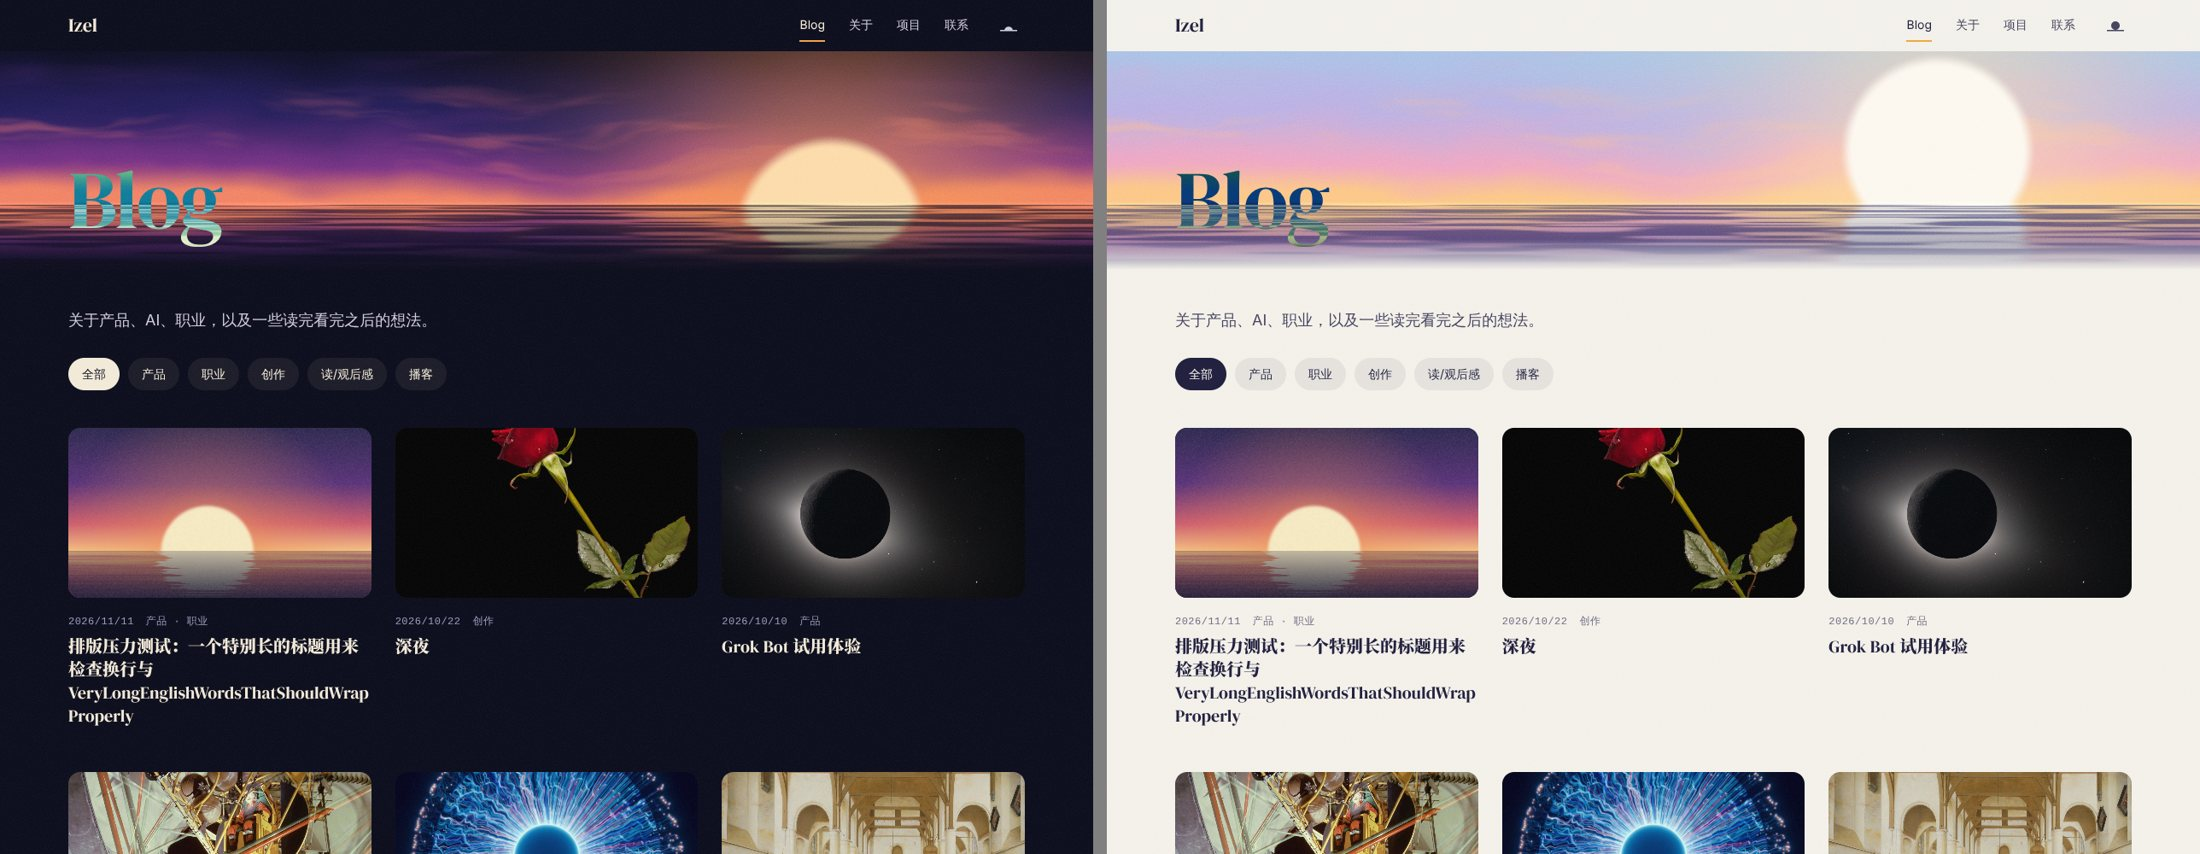
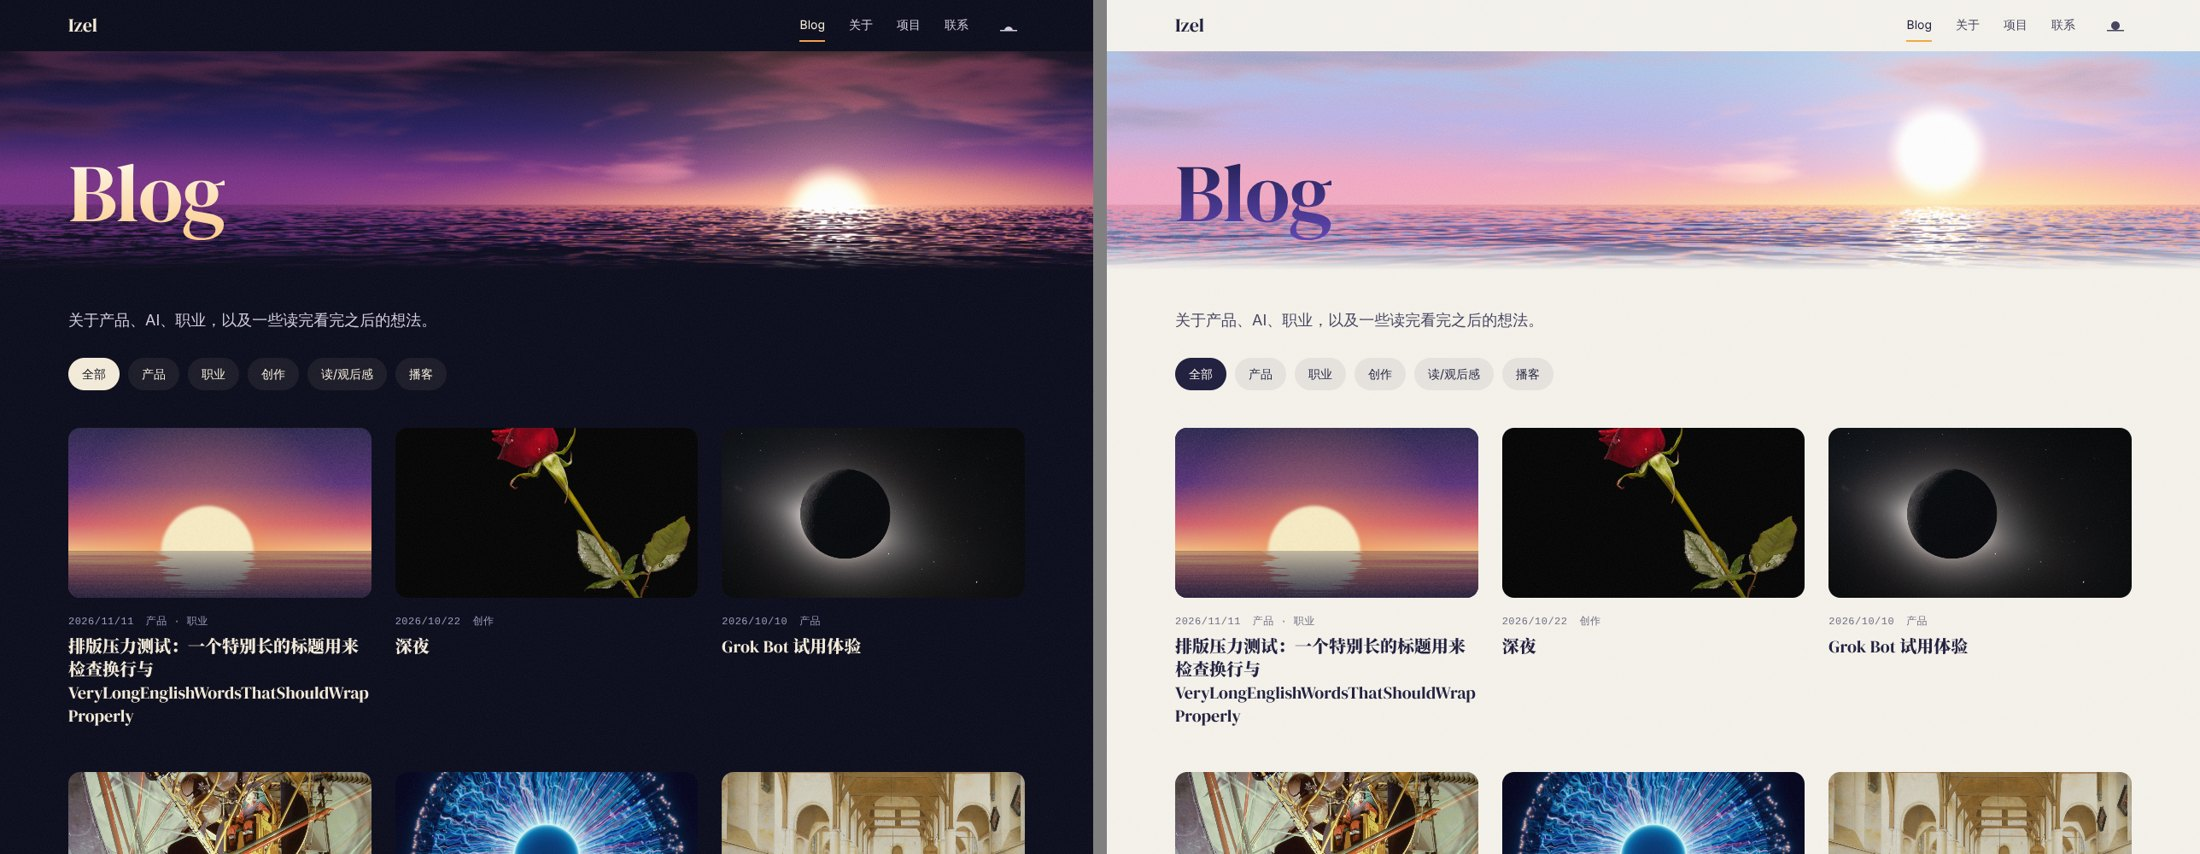
让日出日落更接近真实：光晕散射、被照亮的云、波光粼粼的水面
- 天空：头顶偏冷、低处偏暖，朝向太阳的方向最暖
- 云：成片的云带缓慢漂移，底面被低角度的光染亮，高处和厚处留在阴影里
- 太阳：过曝发白的核心、带色的边缘、紧贴的光晕、更宽的辉光，以及贴着地平线的散射光带
- 水面：按掠射视角计算的波纹，每个小面映出它正对的那片天，太阳因此碎成一条光路
- 颜色按光量计算后再压回屏幕范围，太阳可以过曝而天空不失色
- 画布像素数设上限，大窗口按比例降低分辨率
- Blog 与 404 页头标题改用和首屏一致的渐变色

Claude-Session: https://claude.ai/code/session_01VVCgJNAF3sA25Pjk3o2NEo

Changed region(s): [[0.0, 0.0609, 1.0, 0.3044], [0.5255, 0.0609, 0.7109, 0.0913], [0.4945, 0.1218, 0.5564, 0.1522]]

diff --git a/components/SunScene.js b/components/SunScene.js
@@ -1,14 +1,18 @@
 import { useEffect, useRef } from 'react'
 
 /**
- * A sunrise / sunset painted live on a canvas.
+ * A sunrise / sunset rendered live on a canvas.
  *
- * One fragment shader draws everything: sky colours that seep into each other,
- * drifting clouds, a round sun with a soft blurred rim, and water that pulls
- * the reflection apart into strokes of light. 日出 and 日落 are two palettes and
- * two sun heights; flipping the theme eases from one to the other.
+ * One fragment shader draws everything. The sky is cool overhead and warm
+ * toward the sun; cloud banks drift and catch the low light on their
+ * undersides; the sun burns out to white inside a coloured aureole and a band
+ * of scattered light along the horizon. The water is a rippled surface seen
+ * at a glancing angle: each facet mirrors the piece of sky it happens to face,
+ * which is what breaks the sun into a path of glitter.
  *
- * Without WebGL, or before the script runs, the CSS gradient on .scene shows.
+ * 日出 and 日落 are two palettes and two sun heights; flipping the theme eases
+ * from one to the other. Without WebGL, or before the script runs, the CSS
+ * gradient on .scene shows.
  */
 
 const FRAGMENT = `
@@ -42,59 +46,102 @@ float fbm(vec2 p) {
   return s;
 }
 
-vec3 sky(vec2 p, float aspect) {
-  float h = clamp((p.y - u_horizon) / (1.0 - u_horizon), 0.0, 1.0);
-  // Colours do not sit in bands: slow noise pushes them into each other.
-  float w = fbm(vec2(p.x * 1.1 + u_time * 0.010, p.y * 2.2 - u_time * 0.006));
-  float w2 = fbm(vec2(p.x * 0.6 - u_time * 0.007, p.y * 1.3 + 7.0));
-  float t = h + (w - 0.5) * 0.34 + (w2 - 0.5) * 0.18;
-  vec3 c = mix(u_glow, u_low, smoothstep(0.0, 0.24, t));
-  c = mix(c, u_mid, smoothstep(0.18, 0.58, t));
-  c = mix(c, u_top, smoothstep(0.5, 1.0, t));
-  // Two layers of long thin clouds drifting at different speeds, lit from below.
-  float cl = fbm(vec2(p.x * 1.4 - u_time * 0.045, p.y * 12.0 + w * 3.0));
-  float band = smoothstep(0.5, 0.8, cl) * smoothstep(0.02, 0.22, h) * (1.0 - smoothstep(0.5, 0.9, h));
-  c = mix(c, mix(u_low, u_glow, 0.6), band * 0.5);
-  float cl2 = fbm(vec2(p.x * 0.8 - u_time * 0.022 + 5.0, p.y * 7.0 - w2 * 2.0));
-  float band2 = smoothstep(0.55, 0.85, cl2) * smoothstep(0.3, 0.6, h);
-  c = mix(c, mix(u_mid, u_low, 0.5), band2 * 0.35);
+// Colours are worked on as light (0 = black, large = blinding) and squeezed back
+// at the end, so the sun can burn out to white while the sky keeps its hue.
+vec3 toLight(vec3 c) { return -log(1.0 - c * 0.96); }
+vec3 toScreen(vec3 l) { return (1.0 - exp(-l)) / 0.96; }
 
-  // The sun is a round, softly blurred disc that holds still. Only its reflection
-  // is disturbed, by the water.
+// Light arriving from one direction of the sky. detail = 0 skips the fine cloud
+// layer, for the reflection, where ripples would hide it anyway.
+vec3 skyLight(vec2 p, float aspect, float detail) {
   vec2 sp = vec2(u_sun.x * aspect, u_horizon + u_sun.y * u_radius);
-  float d = length(p - sp);
-  // Halation: light bleeding out of the disc, the way it does on film.
-  float bleed = exp(-d * d / (u_radius * u_radius * 4.5)) * 0.66 + exp(-d / (u_radius * 1.2)) * 0.08;
-  c = mix(c, u_halo, clamp(bleed * u_glowAmt, 0.0, 0.9));
-  // A soft, out-of-focus rim: the disc fades out over the last tenth of its radius.
-  float core = smoothstep(u_radius * 1.03, u_radius * 0.88, d);
-  c = mix(c, u_core, core);
-  return c;
+  float h = clamp((p.y - u_horizon) / (1.0 - u_horizon), 0.0, 1.0);
+  vec2 ds = p - sp;
+  float d = length(ds);
+  float r = u_radius;
+
+  // Air: cool overhead, warm low down, and warmest in the direction of the sun.
+  float toward = exp(-ds.x * ds.x / (0.9 * aspect * 0.5));
+  float w = fbm(vec2(p.x * 0.9 + u_time * 0.006, p.y * 1.8));
+  float t = h + (w - 0.5) * 0.16;
+  vec3 warm = mix(u_low, u_glow, toward);
+  vec3 c = mix(warm, u_low, smoothstep(0.0, 0.2 + 0.12 * toward, t));
+  c = mix(c, u_mid, smoothstep(0.12, 0.55, t));
+  c = mix(c, u_top, smoothstep(0.45, 1.0, t));
+  vec3 L = toLight(c);
+
+  // Clouds: long banks, thicker higher up, drifting. Their undersides catch
+  // the low sun; the thick parts stay in shadow.
+  vec2 cp = vec2(p.x * 1.1 - u_time * 0.035, p.y * 5.5);
+  float warp = fbm(cp * 0.7 + 3.0);
+  float dens = fbm(cp + vec2(warp * 1.6, warp * 0.8));
+  if (detail > 0.5) dens += (fbm(cp * 3.1 + vec2(-u_time * 0.02, 0.0)) - 0.5) * 0.22;
+  float cover = smoothstep(0.46, 0.78, dens + (h - 0.5) * 0.3) * smoothstep(0.04, 0.22, h);
+  // How much low sunlight reaches this part of the cloud deck.
+  float reach = exp(-d / (r * 7.5)) * (1.0 - smoothstep(0.12, 0.8, h) * 0.82);
+  float thin = 1.0 - smoothstep(0.52, 0.82, dens);
+  vec3 shade = toLight(mix(u_top, u_mid, 0.6) * 0.82);
+  vec3 lit = toLight(mix(u_low, u_glow, 0.55)) * (1.0 + 1.3 * reach) + u_halo * thin * reach * 1.3;
+  L = mix(L, mix(shade, lit, clamp(reach * 1.6 + thin * 0.2, 0.0, 1.0)), cover * 0.85);
+
+  // The sun: a core that burns out to white, a coloured rim, a tight aureole,
+  // a wider glow, and a band of scattered light that hugs the horizon.
+  float veil = 1.0 - cover * 0.5;
+  vec3 S = u_core * smoothstep(r * 1.0, r * 0.35, d) * 3.2;
+  S += mix(u_core, u_halo, 0.6) * smoothstep(r * 1.25, r * 0.7, d) * 1.5;
+  S += u_halo * exp(-d / (r * 0.6)) * 1.5;
+  S += u_halo * exp(-d * d / (r * r * 16.0)) * 0.42;
+  S += u_halo * 0.1 * r / (d + r * 1.2);
+  float along = exp(-ds.x * ds.x / (r * r * 46.0));
+  S += u_glow * exp(-abs(p.y - u_horizon) / (r * 0.4)) * along * 0.55;
+  return L + S * veil * u_glowAmt;
+}
+
+float swell(vec2 w, float t) {
+  float s = noise(w * vec2(0.34, 1.05) + vec2(t * 0.04, t * 0.16));
+  s += noise(w * vec2(0.9, 2.5) + vec2(-t * 0.07, t * 0.3)) * 0.5;
+  s += noise(w * vec2(2.3, 5.6) + vec2(t * 0.1, t * 0.52)) * 0.22;
+  return s;
 }
 
 void main() {
   vec2 uv = gl_FragCoord.xy / u_res;
   float aspect = u_res.x / u_res.y;
   vec2 p = vec2(uv.x * aspect, uv.y);
-  vec3 c;
+  vec3 L;
   if (p.y >= u_horizon) {
-    c = sky(p, aspect);
+    L = skyLight(p, aspect, 1.0);
   } else {
-    // Water: the sky upside down, pulled apart by ripples that widen with depth.
-    float depth = (u_horizon - p.y) / u_horizon;
-    float rows = p.y * 150.0 / (1.0 + depth * 2.5);
-    float rip = noise(vec2(p.x * 2.2 + u_time * 0.05, rows - u_time * 0.45));
-    float swell = noise(vec2(p.x * 0.8, rows * 0.22 + u_time * 0.12));
-    vec2 r = vec2(p.x, u_horizon + (u_horizon - p.y) * 1.1);
-    r.x += (rip - 0.5) * 0.09 * (0.25 + depth * 2.2);
-    r.x += (swell - 0.5) * 0.14 * depth;
-    vec3 refl = sky(r, aspect);
-    float lit = smoothstep(0.3, 0.7, rip);
-    float keep = (1.0 - depth * 0.75) * (0.35 + 0.65 * lit);
-    c = mix(u_sea, refl, clamp(keep, 0.0, 1.0));
+    // Water. The eye is level with the horizon; each pixel below it is a ray
+    // that meets the sea some distance away.
+    vec3 ray = normalize(vec3(p.x - 0.5 * aspect, p.y - u_horizon, 1.0));
+    float dist = 1.0 / max(u_horizon - p.y, 0.0015);
+    vec2 w = vec2((p.x - 0.5 * aspect) * dist, dist);
+    // Ripples flatten with distance, which is also what keeps them from flickering.
+    float amp = 0.62 / (1.0 + dist * 0.22);
+    float e = 0.05 + dist * 0.01;
+    float h0 = swell(w, u_time);
+    float hx = swell(w + vec2(e, 0.0), u_time) - h0;
+    float hz = swell(w + vec2(0.0, e), u_time) - h0;
+    vec3 n = normalize(vec3(-hx * amp / e, 1.0, -hz * amp / e));
+    vec3 rf = reflect(ray, n);
+    rf.y = abs(rf.y) + 0.002;
+    rf.z = max(rf.z, 0.15);
+    vec2 rp = vec2(rf.x / rf.z + 0.5 * aspect, rf.y / rf.z + u_horizon);
+    vec3 refl = skyLight(rp, aspect, 0.0);
+    // Glitter: facets that happen to mirror the sun straight into the eye.
+    // A sun that has gone under leaves no glitter, only its afterglow.
+    float up = smoothstep(-1.1, -0.3, u_sun.y);
+    vec2 sp = vec2(u_sun.x * aspect, u_horizon + max(u_sun.y, 0.25) * u_radius);
+    vec3 sunDir = normalize(vec3(sp.x - 0.5 * aspect, sp.y - u_horizon, 1.0));
+    float aim = max(dot(normalize(rf), sunDir), 0.0);
+    refl += mix(u_core, u_halo, 0.35) * (pow(aim, 900.0) * 9.0 + pow(aim, 120.0) * 0.9) * u_glowAmt * up;
+    // Glancing rays mirror the sky; steeper ones look into the dark water.
+    // The sea also swallows a little of what it mirrors, so it reads darker than the sky.
+    float fres = 0.05 + 0.95 * pow(1.0 - max(dot(-ray, n), 0.0), 5.0);
+    L = mix(toLight(u_sea) * 0.85, refl * 0.8, clamp(fres, 0.0, 1.0));
   }
-  c += u_glow * exp(-abs(p.y - u_horizon) * 260.0) * 0.18;
-  gl_FragColor = vec4(c, 1.0);
+  gl_FragColor = vec4(toScreen(L), 1.0);
 }`
 
 const VERTEX = 'attribute vec2 a;void main(){gl_Position=vec4(a,0.0,1.0);}'
@@ -109,8 +156,8 @@ const PALETTES = {
     low: hex('#f09dbd'),
     glow: hex('#ffc27a'),
     sea: hex('#2a2a5e'),
-    core: hex('#fffaf0'),
-    halo: hex('#ffdca6'),
+    core: hex('#fff4d8'),
+    halo: hex('#ffc56e'),
     glowAmt: 0.9,
   },
   night: {
@@ -128,12 +175,13 @@ const COLOR_KEYS = ['top', 'mid', 'low', 'glow', 'sea', 'core', 'halo']
 
 /** horizon: share of the height below the waterline. elev: sun centre above it, in radii. */
 const VARIANTS = {
-  hero: { horizon: 0.22, sunX: 0.5, sunXNarrow: 0.5, radius: 0.3, day: 0.5, night: -0.22 },
-  strip: { horizon: 0.3, sunX: 0.76, sunXNarrow: 0.72, radius: 0.44, day: 0.55, night: -0.3 },
-  sunk: { horizon: 0.3, sunX: 0.76, sunXNarrow: 0.72, radius: 0.44, day: -1.15, night: -1.25 },
+  hero: { horizon: 0.22, sunX: 0.5, sunXNarrow: 0.5, radius: 0.15, day: 0.85, night: -0.25 },
+  strip: { horizon: 0.3, sunX: 0.76, sunXNarrow: 0.72, radius: 0.2, day: 1.2, night: -0.25 },
+  sunk: { horizon: 0.3, sunX: 0.76, sunXNarrow: 0.72, radius: 0.2, day: -1.6, night: -1.6 },
 }
 
-const RESOLUTION = 0.8 // of CSS pixels: the picture is soft, so fewer are enough
+const RESOLUTION = 0.85 // of CSS pixels: enough for the glitter, light enough for phones
+const MAX_PIXELS = 1100000 // large windows render proportionally coarser instead of slower
 const FRAME_MS = 1000 / 30
 const SWITCH_SECONDS = 2.4
 
@@ -188,8 +236,10 @@ export default function SunScene({ variant = 'hero' }) {
     const start = performance.now()
 
     const resize = () => {
-      const width = Math.max(2, Math.round(canvas.clientWidth * RESOLUTION))
-      const height = Math.max(2, Math.round(canvas.clientHeight * RESOLUTION))
+      const area = canvas.clientWidth * canvas.clientHeight
+      const scale = Math.min(RESOLUTION, Math.sqrt(MAX_PIXELS / Math.max(area, 1)))
+      const width = Math.max(2, Math.round(canvas.clientWidth * scale))
+      const height = Math.max(2, Math.round(canvas.clientHeight * scale))
       if (canvas.width !== width || canvas.height !== height) {
         canvas.width = width
         canvas.height = height
@@ -204,7 +254,7 @@ export default function SunScene({ variant = 'hero' }) {
       // A fixed moment when motion is reduced, so the picture holds still.
       gl.uniform1f(uniform('u_time'), reducedMotion.matches ? 20 : 20 + (now - start) / 1000)
       gl.uniform1f(uniform('u_horizon'), config.horizon)
-      gl.uniform1f(uniform('u_radius'), Math.min(config.radius, 0.46 * aspect))
+      gl.uniform1f(uniform('u_radius'), Math.min(config.radius, 0.3 * aspect))
       gl.uniform2f(uniform('u_sun'), aspect < 1 ? config.sunXNarrow : config.sunX, lerp(config.day, config.night, t))
       gl.uniform1f(uniform('u_glowAmt'), lerp(PALETTES.day.glowAmt, PALETTES.night.glowAmt, t))
       for (const key of COLOR_KEYS) {

diff --git a/styles/globals.css b/styles/globals.css
@@ -498,14 +498,18 @@ a {
   box-shadow: 0 8px 22px -12px rgba(27, 26, 58, 0.55);
 }
 
-/* The Blog header keeps its title in "difference", so the water shows through it. */
+/* Page-header titles share the hero's gradient, so they hold their colour
+   against whatever sky is behind them. */
 .page-scene h1 {
   margin: 0;
-  color: #fff;
+  padding-bottom: 0.08em;
+  background: var(--hero-title);
+  -webkit-background-clip: text;
+  background-clip: text;
+  color: transparent;
   font-family: var(--font-display);
   font-weight: 900;
-  letter-spacing: -0.02em;
-  mix-blend-mode: difference;
+  letter-spacing: -0.01em;
 }
 
 .button {
